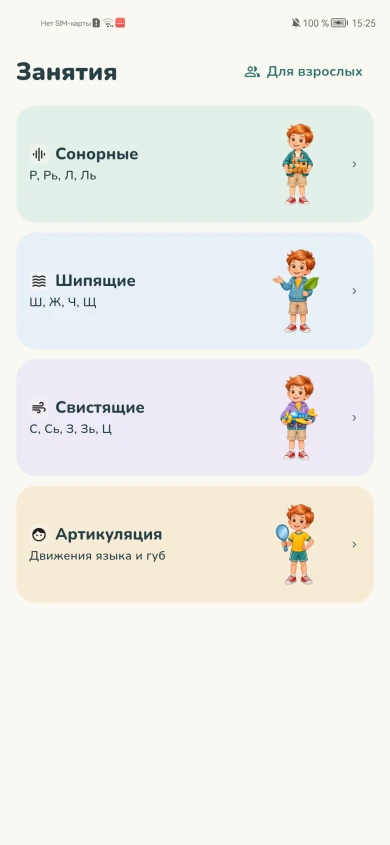
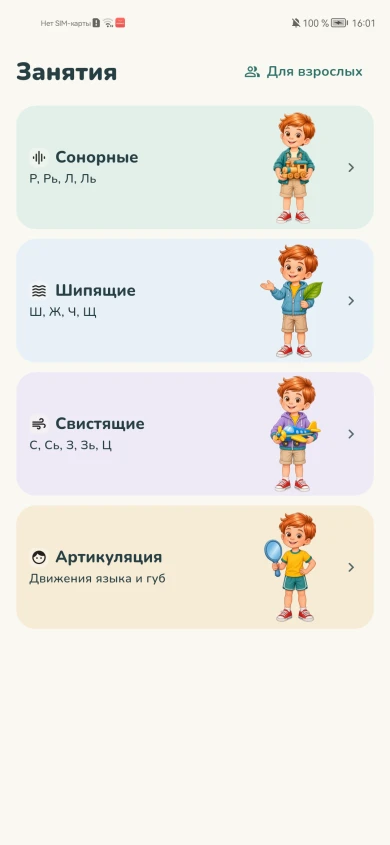
fix(site): enlarge card scenes and refresh Android screens

diff --git a/public/index.html b/public/index.html
@@ -62,28 +62,28 @@
                 <svg viewBox="0 0 24 24" aria-hidden="true"><path d="M5 9v6m4-10v14m6-14v14m4-10v6"/></svg>
                 <h3>Сонорные</h3><p>Р, Рь, Л, Ль</p>
               </div>
-              <img class="category-hero" src="./assets/directions/sonorants.webp" alt="" width="112" height="112" loading="lazy" decoding="async">
+              <img class="category-hero" src="./assets/directions/sonorants.webp" alt="" width="104" height="152" loading="lazy" decoding="async">
             </article>
             <article class="category sibilants">
               <div class="category-copy">
                 <svg viewBox="0 0 24 24" aria-hidden="true"><path d="M3 7q3-4 7 0t11 0M3 12q3-4 7 0t11 0M3 17q3-4 7 0t11 0"/></svg>
                 <h3>Шипящие</h3><p>Ш, Ж, Ч, Щ</p>
               </div>
-              <img class="category-hero" src="./assets/directions/sibilants.webp" alt="" width="112" height="112" loading="lazy" decoding="async">
+              <img class="category-hero" src="./assets/directions/sibilants.webp" alt="" width="104" height="152" loading="lazy" decoding="async">
             </article>
             <article class="category whistling">
               <div class="category-copy">
                 <svg viewBox="0 0 24 24" aria-hidden="true"><path d="M3 8h11a3 3 0 1 0-3-3M3 12h15a3 3 0 1 1-3 3M3 16h6"/></svg>
                 <h3>Свистящие</h3><p>С, Сь, З, Зь, Ц</p>
               </div>
-              <img class="category-hero" src="./assets/directions/whistling.webp" alt="" width="112" height="112" loading="lazy" decoding="async">
+              <img class="category-hero" src="./assets/directions/whistling.webp" alt="" width="104" height="152" loading="lazy" decoding="async">
             </article>
             <article class="category articulation">
               <div class="category-copy">
                 <svg viewBox="0 0 24 24" aria-hidden="true"><circle cx="12" cy="12" r="9"/><path d="M4 10c4 0 6-2 7-5 2 3 5 5 9 5M8 13h.01M16 13h.01M9 17q3 2 6 0"/></svg>
                 <h3>Артикуляция</h3><p>Упражнения для губ и языка</p>
               </div>
-              <img class="category-hero" src="./assets/directions/articulation.webp" alt="" width="112" height="112" loading="lazy" decoding="async">
+              <img class="category-hero" src="./assets/directions/articulation.webp" alt="" width="104" height="152" loading="lazy" decoding="async">
             </article>
           </div>
         </section>

diff --git a/public/styles.css b/public/styles.css
@@ -75,10 +75,10 @@ nav a:hover, .site-footer a:hover, .text-link:hover { text-decoration: underline
 .character figcaption { color: var(--primary); text-align: center; font-size: clamp(1.375rem, 2.5vw, 1.75rem); font-weight: 900; line-height: 1.25; }
 .character img { width: min(100%, 280px); margin-top: 16px; }
 .category-grid { display: grid; grid-template-columns: repeat(2, minmax(0, 1fr)); gap: 16px; margin-top: 24px; }
-.category { display: flex; flex-wrap: wrap; align-items: center; gap: 16px; padding: 24px 20px; border-radius: var(--card-radius); min-width: 0; }
-.category-copy { flex: 1 1 180px; min-width: 0; }
+.category { display: flex; flex-wrap: wrap; align-items: center; gap: 16px; padding: 0 20px; border-radius: var(--card-radius); min-width: 0; min-height: 152px; }
+.category-copy { flex: 1 1 10rem; min-width: 0; padding-block: 24px; }
 .category-copy > * + * { margin-top: 8px; }
-.category .category-hero { width: 112px; height: 112px; object-fit: contain; flex: 0 0 112px; margin-left: auto; }
+.category .category-hero { width: 104px; height: 152px; object-fit: cover; flex: 0 0 104px; margin-left: auto; }
 .category svg { color: var(--primary); }
 .category p { font-size: .9375rem; }
 .sonorants { background: var(--mint); }
@@ -128,7 +128,7 @@ nav a:hover, .site-footer a:hover, .text-link:hover { text-decoration: underline
 }
 
 @media (max-width: 24rem) {
-  .category { padding: 24px; }
+  .category { padding-inline: 24px; }
   .actions { width: 100%; flex-direction: column; }
   .project-note { padding: 24px; }
 }

diff --git a/README.md b/README.md
@@ -41,7 +41,10 @@ CSS-переменные владеют палитрой: молочный #FAF8
 
 В приветствии используется Герка в полный рост, в карточках направлений —
 отдельные сцены с паровозиком, листом, игрушечным самолётом и зеркалом.
-Иллюстрации соответствуют приложению; размер сцен в карточках — 112×112 CSS px.
+Иллюстрации соответствуют приложению; размер сцен в карточках — 104×152 CSS px.
+Портретная область убирает только прозрачные боковые поля квадратного ресурса,
+сохраняя героя целиком и без искажения пропорций. Вертикальные отступы
+принадлежат тексту, поэтому изображение занимает почти всю высоту карточки.
 Галерея показывает вход, занятия, выбор шипящих, звуки Р и Рь, артикуляцию.
 Снимки работающего приложения сделаны на Honor 20, вход — на эмуляторе
 Android API 24. Пропорции кадров разных устройств сохраняются. В галерее

diff --git a/docs/STATE.md b/docs/STATE.md
@@ -5,6 +5,10 @@
 
 - Приветствие и четыре карточки направлений используют новые ростовые
   иллюстрации Герки. Самолёт игрушечный, у направлений разные предметы.
+- Герой в карточках увеличен: общий портретный viewport сохраняет фигуру
+  целиком и убирает прозрачные боковые поля. Отступы текста отделены
+  от изображения. Снимки входа, главной и выбора звука обновлены после
+  корректировки масштаба и стрелок в приложении.
 - Галерея показывает шесть реальных экранов: вход с тремя кнопками VK ID,
   занятия, выбор шипящих, звуки Р и Рь, артикуляцию. Вход снят на эмуляторе
   Android API 24, остальные кадры — на Honor 20. Пропорции кадров сохранены.
